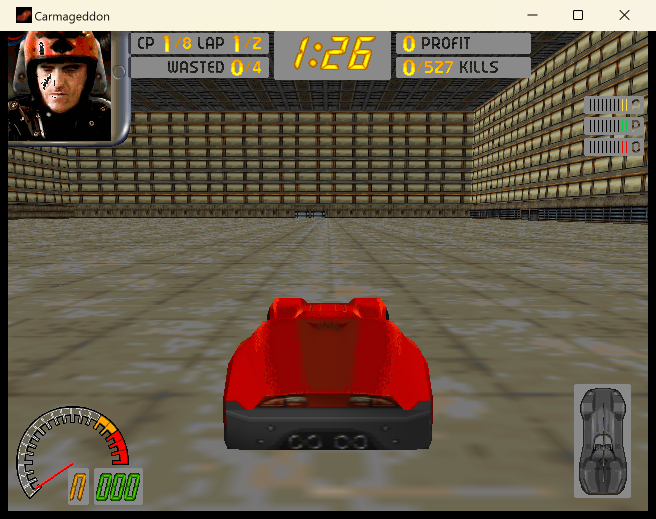
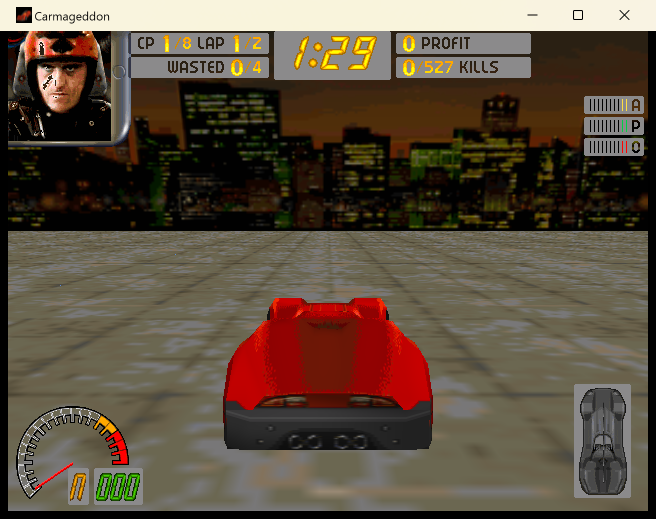
render_vk: add the initial horizon overlay
Render HORIZON.MAT after the world with a depth-disabled sky pipeline and an upper-screen scissor, restoring the city skyline without covering the car or track. Validate the in-game frame; no validation messages were reported. Dynamic horizon clipping remains.

diff --git a/src/render_vk/src/rvk_pipeline.c b/src/render_vk/src/rvk_pipeline.c
@@ -11,7 +11,7 @@ static VkResult rvk_create_shader_module(RvkDevice *device, const uint32_t *code
     return device->vk.CreateShaderModule(device->device, &create_info, NULL, module);
 }
 
-static RvkResult rvk_create_world_pipeline(RvkDevice *device) {
+static RvkResult rvk_create_world_pipeline(RvkDevice *device, VkBool32 depth_test, VkPipeline *out_pipeline) {
     VkShaderModule vertex_module = VK_NULL_HANDLE;
     VkShaderModule fragment_module = VK_NULL_HANDLE;
     VkPipelineShaderStageCreateInfo stages[2];
@@ -100,8 +100,8 @@ static RvkResult rvk_create_world_pipeline(RvkDevice *device) {
 
     memset(&depth_stencil, 0, sizeof(depth_stencil));
     depth_stencil.sType = VK_STRUCTURE_TYPE_PIPELINE_DEPTH_STENCIL_STATE_CREATE_INFO;
-    depth_stencil.depthTestEnable = VK_TRUE;
-    depth_stencil.depthWriteEnable = VK_TRUE;
+    depth_stencil.depthTestEnable = depth_test;
+    depth_stencil.depthWriteEnable = depth_test;
     depth_stencil.depthCompareOp = VK_COMPARE_OP_LESS_OR_EQUAL;
     depth_stencil.depthBoundsTestEnable = VK_FALSE;
     depth_stencil.stencilTestEnable = VK_FALSE;
@@ -161,7 +161,7 @@ static RvkResult rvk_create_world_pipeline(RvkDevice *device) {
     pipeline_info.layout = device->world_pipeline_layout;
     pipeline_info.renderPass = device->world_render_pass;
     pipeline_info.subpass = 0;
-    result = device->vk.CreateGraphicsPipelines(device->device, VK_NULL_HANDLE, 1, &pipeline_info, NULL, &device->world_pipeline);
+    result = device->vk.CreateGraphicsPipelines(device->device, VK_NULL_HANDLE, 1, &pipeline_info, NULL, out_pipeline);
     device->vk.DestroyShaderModule(device->device, fragment_module, NULL);
     device->vk.DestroyShaderModule(device->device, vertex_module, NULL);
     if (result != VK_SUCCESS) {
@@ -293,7 +293,11 @@ static RvkResult rvk_create_overlay_pipeline(RvkDevice *device, VkRenderPass ren
 RvkResult rvk_create_pipelines(RvkDevice *device) {
     RvkResult result;
 
-    result = rvk_create_world_pipeline(device);
+    result = rvk_create_world_pipeline(device, VK_TRUE, &device->world_pipeline);
+    if (result != RVK_OK) {
+        return result;
+    }
+    result = rvk_create_world_pipeline(device, VK_FALSE, &device->world_sky_pipeline);
     if (result != RVK_OK) {
         return result;
     }
@@ -317,6 +321,9 @@ void rvk_destroy_pipelines(RvkDevice *device) {
     if (device->world_pipeline != VK_NULL_HANDLE && device->vk.DestroyPipeline != NULL) {
         device->vk.DestroyPipeline(device->device, device->world_pipeline, NULL);
     }
+    if (device->world_sky_pipeline != VK_NULL_HANDLE && device->vk.DestroyPipeline != NULL) {
+        device->vk.DestroyPipeline(device->device, device->world_sky_pipeline, NULL);
+    }
     if (device->overlay_pipeline_layout != VK_NULL_HANDLE && device->vk.DestroyPipelineLayout != NULL) {
         device->vk.DestroyPipelineLayout(device->device, device->overlay_pipeline_layout, NULL);
     }
@@ -326,6 +333,7 @@ void rvk_destroy_pipelines(RvkDevice *device) {
     device->overlay_clear_pipeline = VK_NULL_HANDLE;
     device->overlay_load_pipeline = VK_NULL_HANDLE;
     device->world_pipeline = VK_NULL_HANDLE;
+    device->world_sky_pipeline = VK_NULL_HANDLE;
     device->overlay_pipeline_layout = VK_NULL_HANDLE;
     device->world_pipeline_layout = VK_NULL_HANDLE;
 }

diff --git a/src/DETHRACE/common/render_vk_bridge.c b/src/DETHRACE/common/render_vk_bridge.c
@@ -1,9 +1,11 @@
 #include "render_vk_bridge.h"
 
+#include <math.h>
 #include <stdio.h>
 #include <stdlib.h>
 #include <string.h>
 
+#include "depth.h"
 #include "globvars.h"
 #include "graphics.h"
 #include "harness/hooks.h"
@@ -41,6 +43,7 @@ static uint32_t gRenderVk_index_capacity;
 static RvkWorldDraw *gRenderVk_draws;
 static uint32_t gRenderVk_draw_count;
 static uint32_t gRenderVk_draw_capacity;
+static uint32_t gRenderVk_draw_flags;
 static uint32_t *gRenderVk_overlay;
 static size_t gRenderVk_overlay_capacity;
 static float gRenderVk_view_proj[16];
@@ -439,7 +442,7 @@ static int GameRender_EmitRun(const float model[16], br_material *material, uint
     draw = &gRenderVk_draws[gRenderVk_draw_count++];
     draw->first_index = first_index;
     draw->index_count = index_count;
-    draw->flags = 0;
+    draw->flags = gRenderVk_draw_flags;
     memcpy(draw->model, model, sizeof(draw->model));
     draw->texture = GameRender_GetTexture(material != NULL ? material->colour_map : NULL);
     draw->tint[0] = 1.0f;
@@ -678,6 +681,7 @@ static void GameRender_ResetScene(void) {
     gRenderVk_vertex_count = 0;
     gRenderVk_index_count = 0;
     gRenderVk_draw_count = 0;
+    gRenderVk_draw_flags = 0;
 }
 
 static int GameRender_BuildOverlay(br_pixelmap *back) {
@@ -983,11 +987,39 @@ void GameRender_BeginScene(br_actor *camera) {
     }
 }
 
+static int GameRender_PrepareSky(br_actor *camera) {
+    br_camera *camera_data;
+    br_angle yaw;
+
+    if (camera == NULL || camera->type_data == NULL || gForward_sky_actor == NULL || gForward_sky_model == NULL
+        || gHorizon_material == NULL || gProgram_state.current_depth_effect.sky_texture == NULL
+        || (gLast_camera_special_volume != NULL && gLast_camera_special_volume->sky_col >= 0)) {
+        return 0;
+    }
+    camera_data = (br_camera *)camera->type_data;
+    if (camera_data->field_of_view != gOld_fov || camera_data->yon_z != gOld_yon) {
+        MungeSkyModel(camera, gForward_sky_model);
+        gOld_fov = camera_data->field_of_view;
+        gOld_yon = camera_data->yon_z;
+    }
+    yaw = BrRadianToAngle(atan2(gCamera_to_world.m[2][0], gCamera_to_world.m[2][2]));
+    BrMatrix34RotateY(&gForward_sky_actor->t.t.mat, yaw);
+    BrVector3Copy(&gForward_sky_actor->t.t.translate.t, (br_vector3 *)gCamera_to_world.m[3]);
+    gForward_sky_actor->render_style = BR_RSTYLE_FACES;
+    return 1;
+}
+
 void GameRender_AddUniverse(br_actor *universe) {
     if (!GameRender_IsActive() || universe == NULL || universe == gDont_render_actor) {
         return;
     }
     GameRender_AddActor(universe, universe, NULL, NULL, BR_RSTYLE_DEFAULT);
+    if (GameRender_PrepareSky(gRenderVk_camera)) {
+        gRenderVk_draw_flags = RVK_DRAW_FLAG_NO_DEPTH | RVK_DRAW_FLAG_COLOUR_KEY | RVK_DRAW_FLAG_SKY;
+        GameRender_AddActor(gForward_sky_actor, universe, NULL, gHorizon_material, BR_RSTYLE_FACES);
+        gRenderVk_draw_flags = 0;
+        gForward_sky_actor->render_style = BR_RSTYLE_NONE;
+    }
     if (gRenderVk_draw_count > 0) {
         gRenderVk_scene_ready = 1;
     }

diff --git a/src/render_vk/src/rvk_draw.c b/src/render_vk/src/rvk_draw.c
@@ -32,6 +32,7 @@ RvkResult rvk_draw_world(RvkDevice *device, const float view_proj[16],
     VkViewport viewport;
     VkRect2D scissor;
     VkDeviceSize vertex_offset = 0;
+    VkPipeline bound_pipeline = VK_NULL_HANDLE;
     uint32_t i;
 
     if (device == NULL || view_proj == NULL || vertices == NULL || indices == NULL || draws == NULL) {
@@ -82,7 +83,6 @@ RvkResult rvk_draw_world(RvkDevice *device, const float view_proj[16],
     scissor.extent = device->extent;
     device->vk.CmdSetViewport(device->command_buffer, 0, 1, &viewport);
     device->vk.CmdSetScissor(device->command_buffer, 0, 1, &scissor);
-    device->vk.CmdBindPipeline(device->command_buffer, VK_PIPELINE_BIND_POINT_GRAPHICS, device->world_pipeline);
     device->vk.CmdBindDescriptorSets(device->command_buffer, VK_PIPELINE_BIND_POINT_GRAPHICS,
         device->world_pipeline_layout, 0, 1, &device->ubo_descriptor, 0, NULL);
     device->vk.CmdBindVertexBuffers(device->command_buffer, 0, 1, &device->world_vertex_buffer, &vertex_offset);
@@ -92,6 +92,8 @@ RvkResult rvk_draw_world(RvkDevice *device, const float view_proj[16],
         const RvkWorldDraw *draw = &draws[i];
         RvkWorldPush push;
         VkDescriptorSet texture = rvk_texture_descriptor(device, draw->texture);
+        VkPipeline pipeline;
+        VkRect2D draw_scissor = scissor;
 
         if (texture == VK_NULL_HANDLE) {
             continue;
@@ -99,6 +101,15 @@ RvkResult rvk_draw_world(RvkDevice *device, const float view_proj[16],
         if (draw->first_index + draw->index_count > index_count) {
             continue;
         }
+        pipeline = (draw->flags & RVK_DRAW_FLAG_NO_DEPTH) ? device->world_sky_pipeline : device->world_pipeline;
+        if (pipeline != bound_pipeline) {
+            device->vk.CmdBindPipeline(device->command_buffer, VK_PIPELINE_BIND_POINT_GRAPHICS, pipeline);
+            bound_pipeline = pipeline;
+        }
+        if ((draw->flags & RVK_DRAW_FLAG_SKY) != 0) {
+            draw_scissor.extent.height = (device->extent.height * 5u) / 12u;
+        }
+        device->vk.CmdSetScissor(device->command_buffer, 0, 1, &draw_scissor);
         memcpy(push.model, draw->model, sizeof(push.model));
         memcpy(push.tint, draw->tint, sizeof(push.tint));
         push.flags = draw->flags;

diff --git a/src/render_vk/src/rvk_internal.h b/src/render_vk/src/rvk_internal.h
@@ -174,6 +174,7 @@ struct RvkDevice {
     VkPipelineLayout world_pipeline_layout;
     VkPipelineLayout overlay_pipeline_layout;
     VkPipeline world_pipeline;
+    VkPipeline world_sky_pipeline;
     VkPipeline overlay_load_pipeline;
     VkPipeline overlay_clear_pipeline;
     VkRenderPass world_render_pass;

diff --git a/src/render_vk/include/rvk.h b/src/render_vk/include/rvk.h
@@ -46,6 +46,8 @@ typedef struct RvkWorldDraw {
 } RvkWorldDraw;
 
 #define RVK_DRAW_FLAG_COLOUR_KEY 1u
+#define RVK_DRAW_FLAG_NO_DEPTH 2u
+#define RVK_DRAW_FLAG_SKY 4u
 
 typedef void (*RvkLogFn)(void *user, int level, const char *message);
 typedef void (*RvkProc)(void);

diff --git a/docs/render-vk-architecture.md b/docs/render-vk-architecture.md
@@ -137,8 +137,8 @@ The new path is selected with `--render-vk`. A test hook, `RVK_AUTOSTART=1`, sta
 race without menu input; it works in both renderer builds so the same pose can be captured with
 the legacy path for comparison. It is a verification aid, not a shipping default. The log shows
 `VKREND: race loop started`, and the new renderer builds and submits a world pass every frame. The
-first captured race frame is `docs/images/render-vk-first-race.png`; it shows the track and the
-player car upright, with the existing HUD overlay.
+first captured race frame is `docs/images/render-vk-first-race.png`; it shows the track, the
+player car upright, the city skyline and the existing HUD overlay.
 
 The frame uses:
 
@@ -151,12 +151,15 @@ The frame uses:
 - material opacity and colour-key handling. The world pipeline blends with source alpha, and the
   fragment shader discards near-black texels when the material has colour keying enabled (the
   BRender default unless `BR_MATF_DISABLE_COLOUR_KEY` is set). This removes black sprite
-  rectangles such as the car's spike sprite.
+  rectangles such as the car's spike sprite;
+- an initial horizon pass. `HORIZON.MAT` is added after the world with depth testing disabled and
+  a top-screen scissor, so the city panorama covers the background without covering the car or
+  track. Dynamic horizon clipping is still to do.
 
 The first measured scene has about 3408 draws, 38638 vertices and 65949 indices. The CPU bridge
 walks the live BRender scene every frame with no batching, indirect submission, shadows, mirror,
-cockpit target, smoke/spark effect or full UI pass. The horizon/sky pass is also missing, so the
-track backdrop does not yet match the legacy capture.
+cockpit target, smoke/spark effect or full UI pass. The initial horizon pass covers the backdrop,
+but its scissor is fixed to the upper screen instead of following the real horizon.
 
 A preliminary performance run used the Release build, 640x480, IMMEDIATE present, `--fps=0` and
 `RVK_AUTOSTART=1` with `RVK_FPS_LOG=1`. One 60-second stationary start scene produced 1016-1067

diff --git a/plan.md b/plan.md
@@ -128,8 +128,9 @@ car. `BR_RSTYLE_NONE` prunes the actor subtree, which keeps hidden car variants 
 parts (such as `FIN.DAT`) out of the frame. The world pipeline blends by source alpha and discards
 colour-keyed near-black texels, matching BRender's default sprite transparency. The first race
 scene submits about 3408 draws, 38638 vertices and 65949 indices because the bridge emits one draw
-per material run with no batching. Shadow, mirror, cockpit, horizon/sky and effect passes are not
-implemented.
+per material run with no batching. An initial horizon pass is implemented with a no-depth sky
+pipeline and a fixed upper-screen scissor; dynamic horizon clipping, shadow, mirror, cockpit and
+effect passes are not implemented.
 
 Early performance: Release, 640x480, IMMEDIATE, `--fps=0`, one 60-second stationary autostart
 scene with `RVK_FPS_LOG=1`: 1016-1067 presented frames/s in steady samples, about 1020 frames/s
@@ -146,10 +147,11 @@ camera, cars, track, effects, HUD, map, mirror, cockpit, shadows. Keep the legac
 selector for A/B. No BRender renderer/DDI calls in the new path.
 
 The forward world, camera, player car and HUD overlay now run in a race. Hidden car subtrees are
-pruned correctly, removing the stray bonnet-fin geometry. `RVK_AUTOSTART=1` is a verification
-hook that skips the menus and grid screen; it works in both renderer builds for same-pose
-comparisons and is not a shipping default. Map, mirror, cockpit, horizon/sky, shadows, smoke,
-sparks, splashes and summary parity remain.
+pruned correctly, removing the stray bonnet-fin geometry. The city horizon is back as an initial
+screen-scissored overlay. `RVK_AUTOSTART=1` is a verification hook that skips the menus and grid
+screen; it works in both renderer builds for same-pose comparisons and is not a shipping default.
+Map, mirror, cockpit, dynamic horizon clipping, shadows, smoke, sparks, splashes and summary
+parity remain.
 
 Exit: race playable through the new path; forward/mirror/cockpit/map/summary parity; legacy
 software/OpenGL still work.
